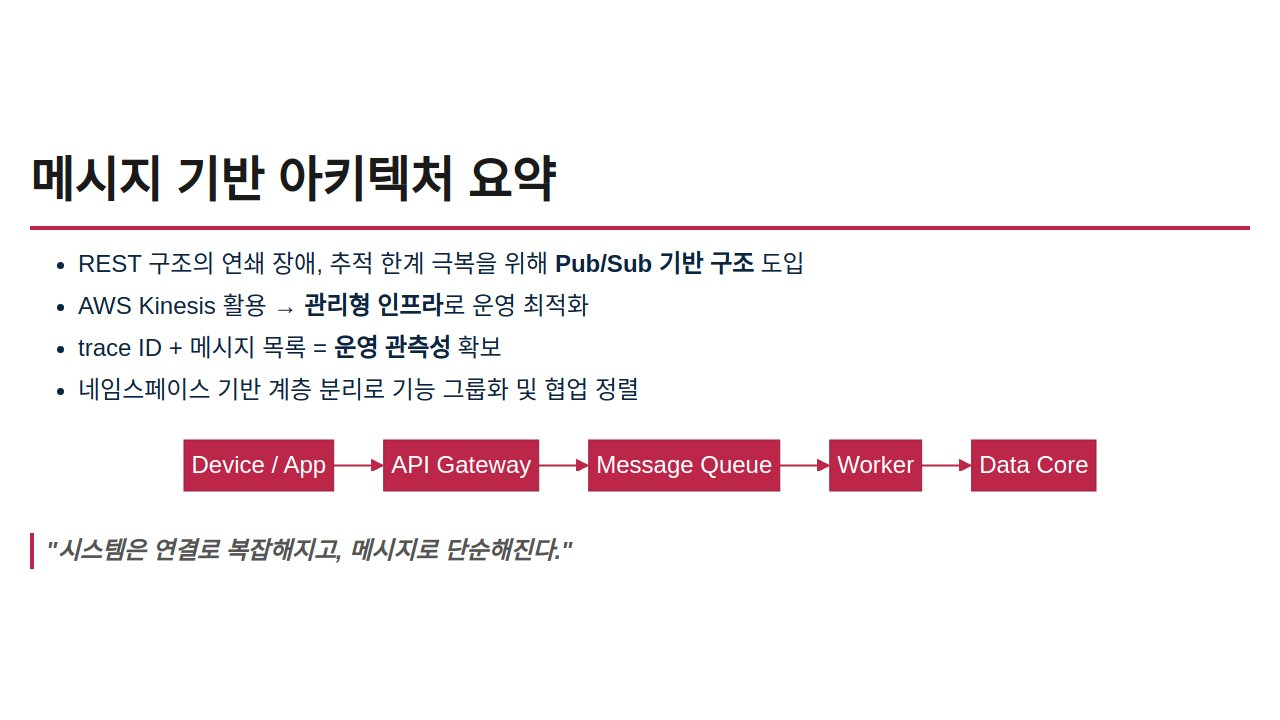
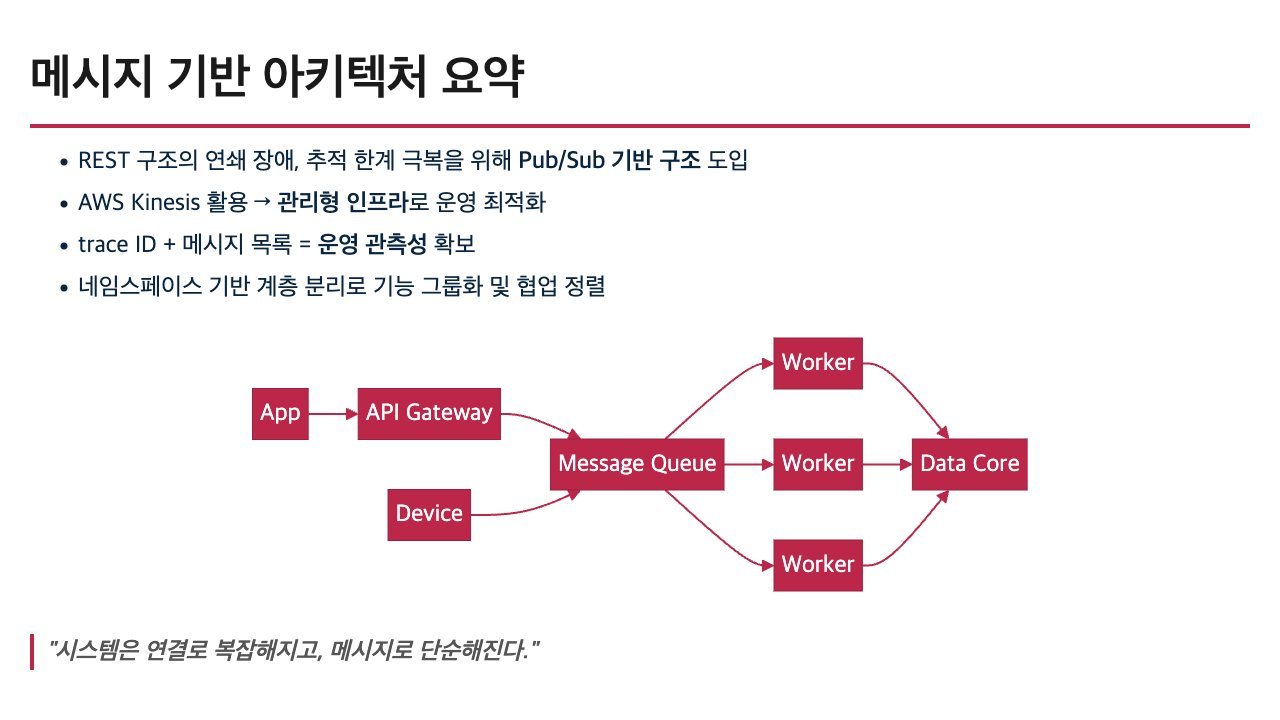
도표 수정

diff --git a/marp/slides/message-architecture-and-operational-design.md b/marp/slides/message-architecture-and-operational-design.md
@@ -7,10 +7,15 @@
 
 <div class="mermaid">
 graph LR
-device[Device / App] --> API[API Gateway]
+APP[App] --> API[API Gateway]
 API --> MSG[Message Queue]
+DEV[Device] --> MSG[Message Queue]
 MSG --> MSA[Worker]
+MSG --> MSA1[Worker]
+MSG --> MSA2[Worker]
 MSA --> Data[Data Core]
+MSA1 --> Data[Data Core]
+MSA2 --> Data[Data Core]
 </div>
 
 
